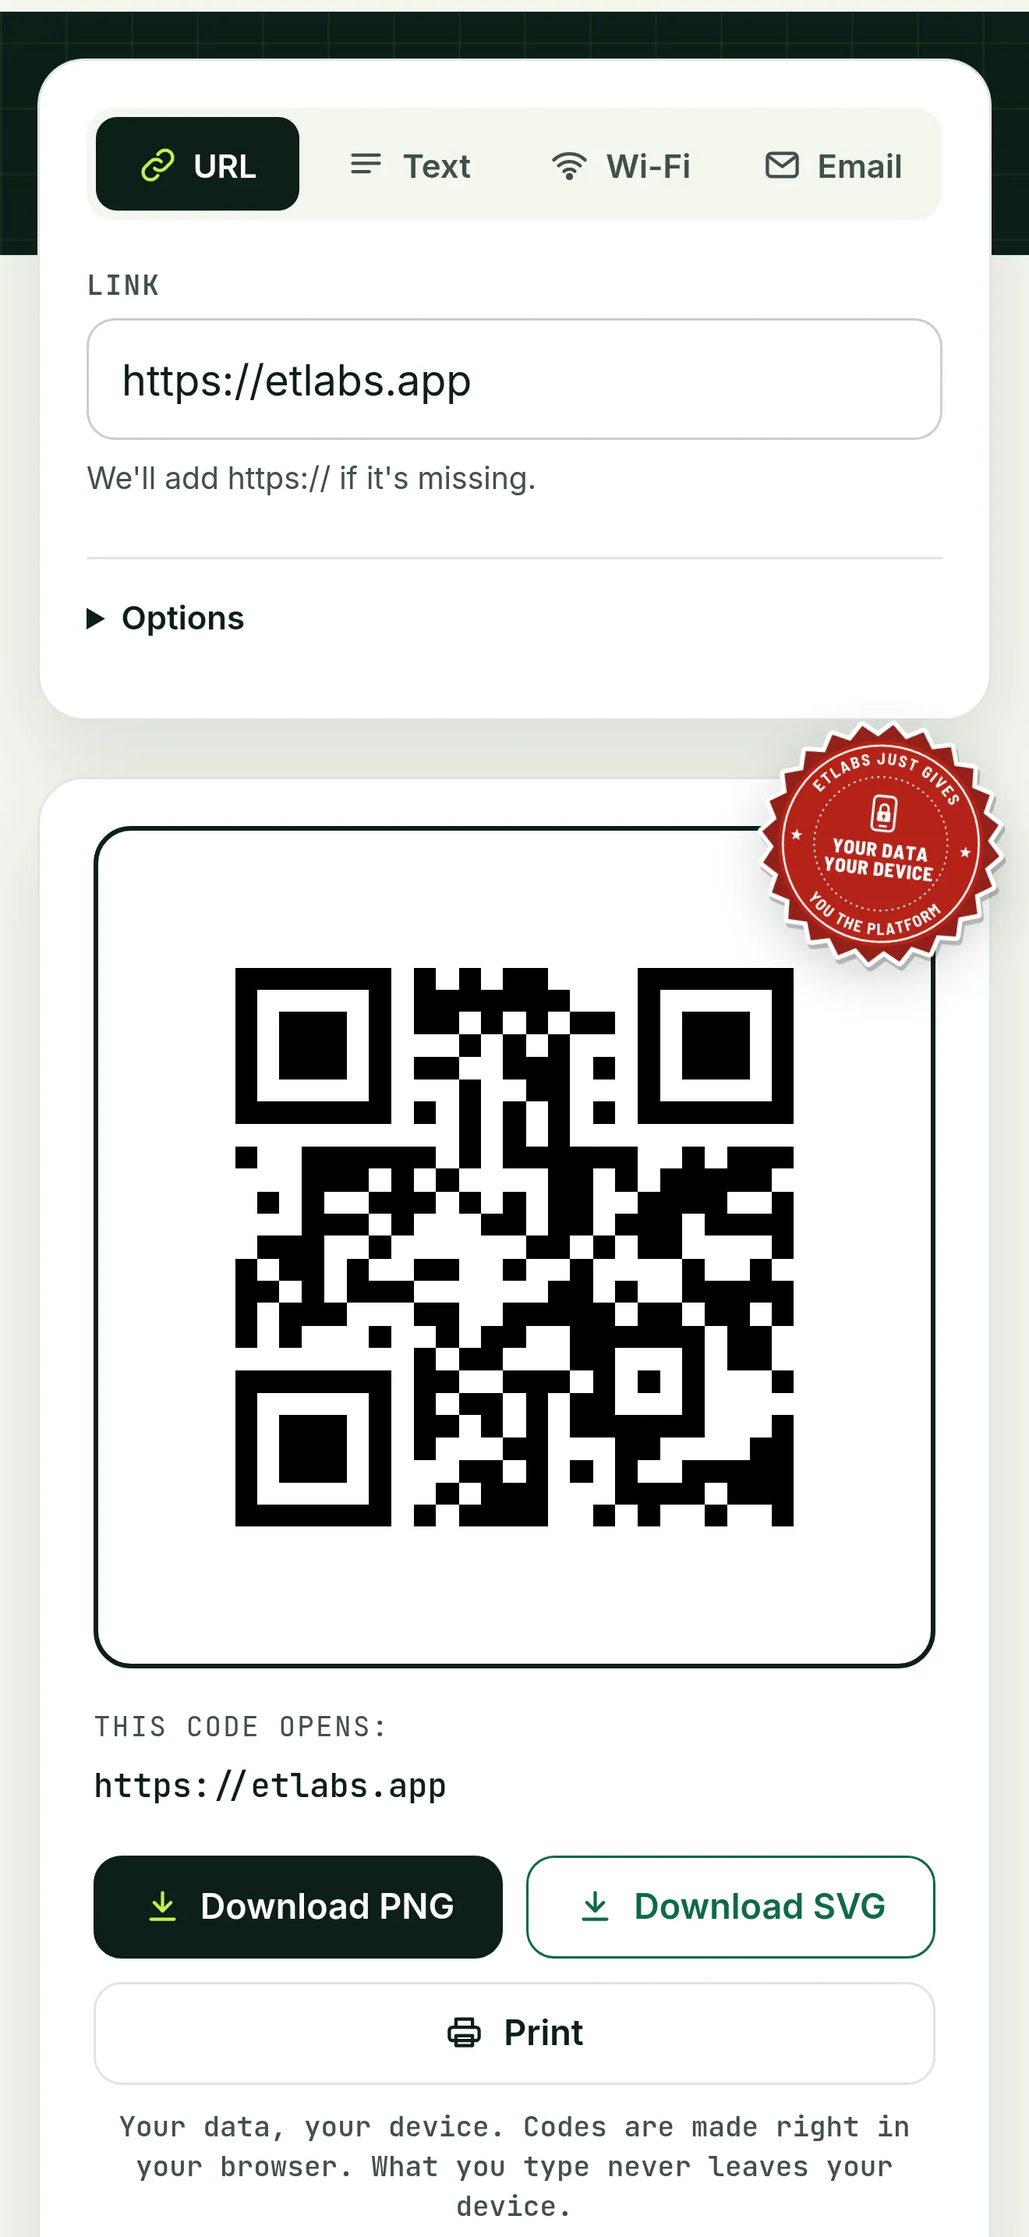
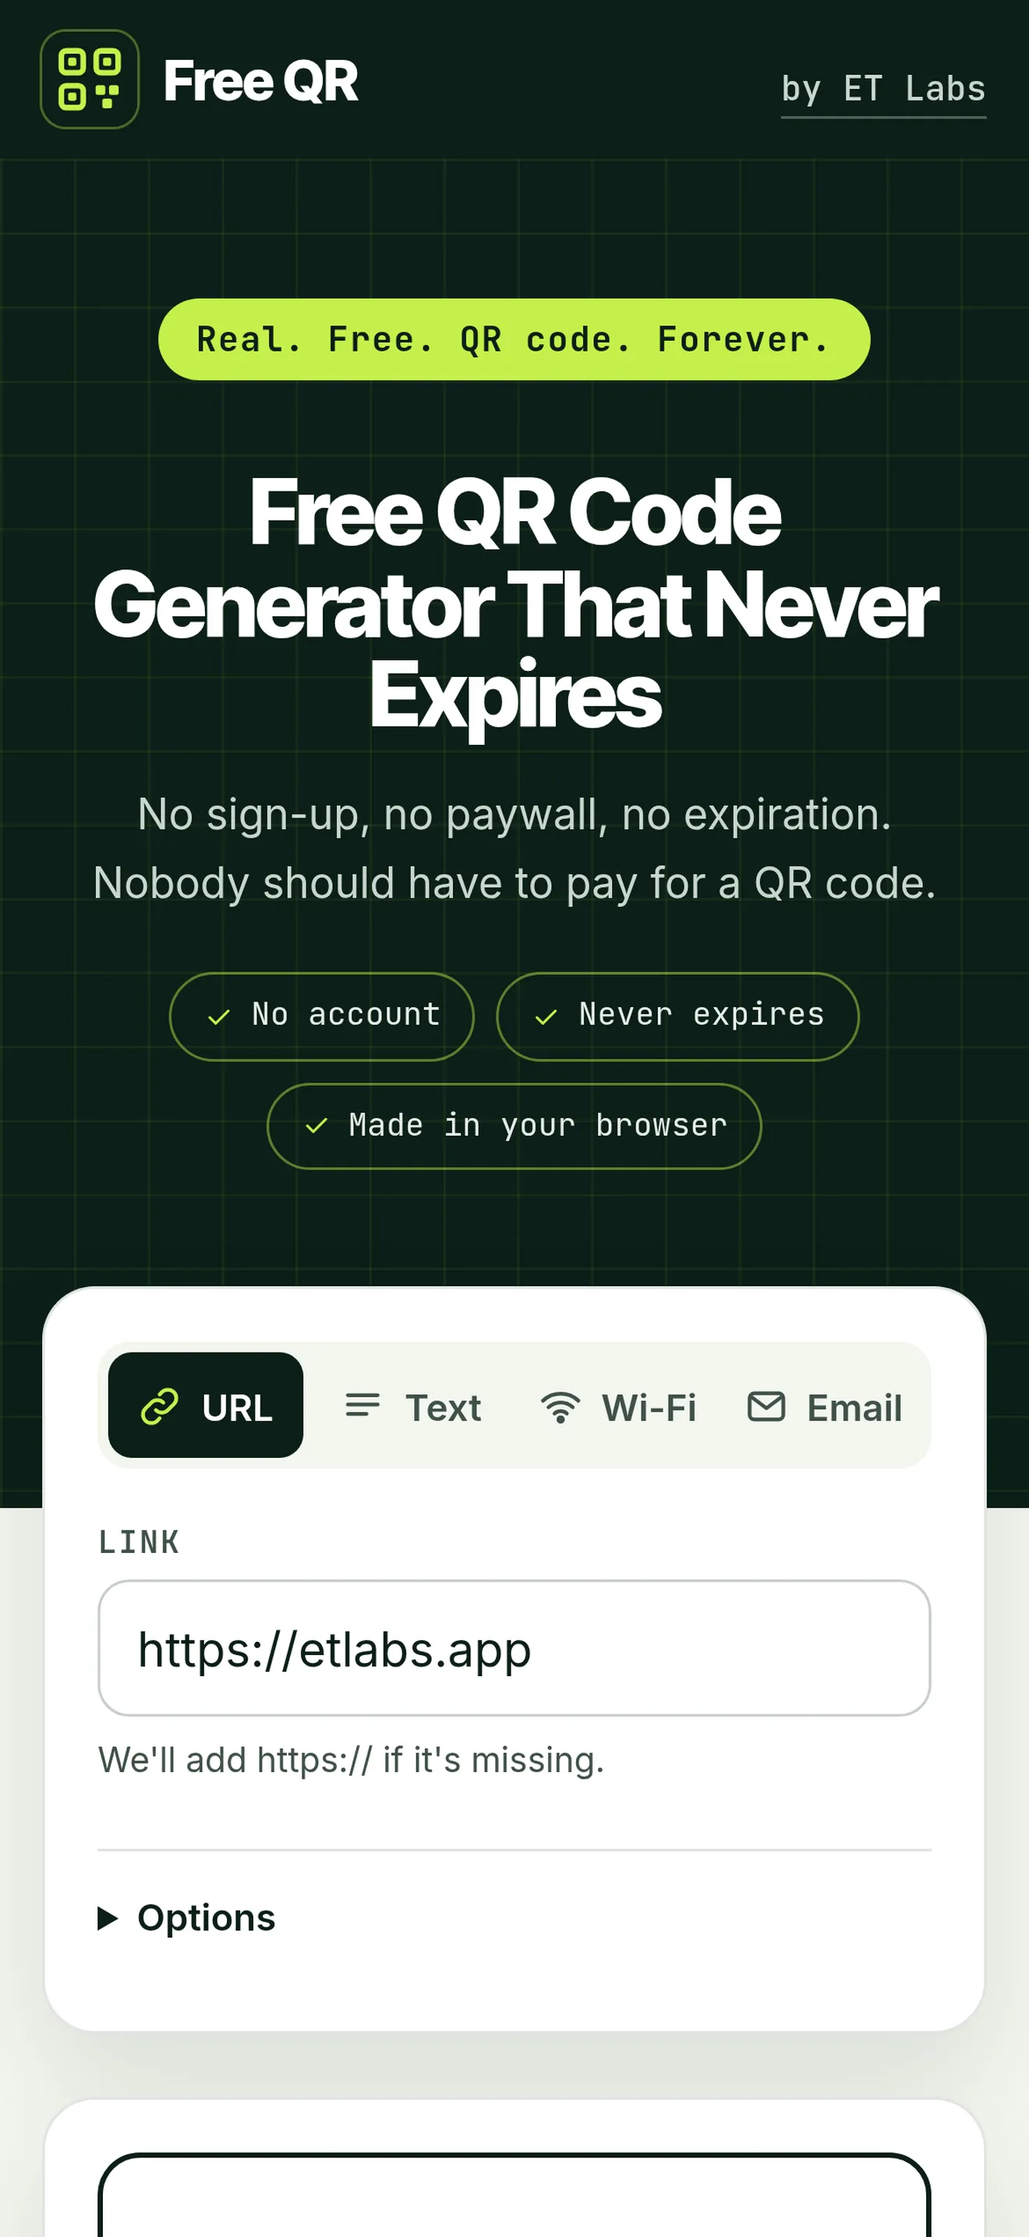
Free QR card: 390px top-of-page phone shot, page sticker out of frame; alt updated

diff --git a/index.html b/index.html
@@ -106,7 +106,7 @@
 <article class="card portfolio-card portfolio-sleeptight" id="sleeptight-card"><div class="portfolio-media"><img src="/apps/sleeptight/images/hero-phone.webp" width="520" height="1040" loading="lazy" alt="SleepTight: DreamWrite on iPhone"><img class="st-stamp st-stamp--card st-stamp--animate" src="/assets/images/hq-product/myhq-stamp.svg" width="250" height="252" alt="Your data, your device. ETLabs just gives you the platform."></div><div class="portfolio-copy"><img class="status-stamp" src="/assets/images/stamps/status-live.svg" width="74" height="41" alt="Status: Live"><p class="card-label">On the App Store</p><div class="st-card-title"><img src="/apps/sleeptight/images/sleeptight-logo.webp" class="st-card-icon" width="44" height="44" alt=""><h2 class="section-title">SleepTight: DreamWrite</h2></div><p class="section-text">Plan bedtime, set real alarms, take naps, and keep a private dream journal. Voice memos are free; optional premium features add on-device transcription, deeper history, and sleep timing insights.</p><p class="st-smallprint" data-copy-slot="sleeptight-smallprint">Stored on your iPhone. App Store label: Data Not Collected.</p><div class="split-actions"><a href="/apps/sleeptight/" class="primary-button">Explore SleepTight</a><a href="https://apps.apple.com/app/sleeptight-dreamwrite/id6760793422" class="secondary-button" target="_blank" rel="noopener noreferrer">App Store</a></div></div></article>
 <article class="card portfolio-card portfolio-totalcross"><div class="portfolio-media"><img class="card-shot" src="/assets/images/cards/totalcross-phone.webp" width="440" height="956" loading="lazy" decoding="async" alt="Total Cross on a phone: a daily puzzle grid with Across and Down target sums."></div><div class="portfolio-copy"><img class="status-stamp" src="/assets/images/stamps/status-live.svg" width="74" height="41" alt="Status: Live"><p class="card-label">Free · Daily puzzle</p><h2 class="section-title">Total Cross</h2><p class="section-text">A daily number crossword where letters have values and every word must add up to its target. Three difficulty levels, one finishable puzzle a day.</p><div class="split-actions"><a href="/apps/totalcross/" class="primary-button">Play Total Cross</a></div></div></article>
 <article class="card portfolio-card portfolio-study"><div class="portfolio-media"><img class="card-shot" src="/assets/images/cards/securityplus-phone.webp" width="440" height="956" loading="lazy" decoding="async" alt="Security+ Study on a phone: a scenario question with four answer choices."></div><div class="portfolio-copy"><img class="status-stamp" src="/assets/images/stamps/status-live.svg" width="74" height="41" alt="Status: Live"><p class="card-label">Free quiz games</p><h2 class="section-title">Security+ Study</h2><p class="section-text">Practice selected CompTIA Security+ (SY0-701) topics with short rounds of terms, scenarios, and certificate anatomy. A study supplement you can use at your own pace.</p><div class="split-actions"><a href="/study/" class="primary-button">Start studying</a></div></div></article>
-<article class="card portfolio-card portfolio-freeqr"><div class="portfolio-media"><img class="card-shot" src="/assets/images/cards/freeqr-phone.webp" width="440" height="956" loading="lazy" decoding="async" alt="Free QR on a phone: a QR code for etlabs.app with download buttons."><img class="st-stamp st-stamp--card st-stamp--animate" src="/assets/images/hq-product/myhq-stamp.svg" width="250" height="252" alt="Your data, your device. Codes are made right in your browser. What you type never leaves your device." data-legal-gate="freeqr-sticker"></div><div class="portfolio-copy"><img class="status-stamp" src="/assets/images/stamps/status-live.svg" width="74" height="41" alt="Status: Live"><p class="card-label">Free · Web tool</p><div class="st-card-title"><img src="/qr/icons/app-icon.svg" class="st-card-icon" width="44" height="44" alt=""><h2 class="section-title">Free QR</h2></div><p class="section-text">Free QR codes that never expire. Your link goes straight into the code, so there's no sign-up, no paywall and nothing to renew. Made right in your browser.</p><p class="st-smallprint" data-copy-slot="freeqr-smallprint" data-legal-gate="freeqr-sticker">Your data, your device. Codes are made right in your browser. What you type never leaves your device.</p><div class="split-actions"><a href="/qr/" class="primary-button">Make a QR code</a></div></div></article>
+<article class="card portfolio-card portfolio-freeqr"><div class="portfolio-media"><img class="card-shot" src="/assets/images/cards/freeqr-phone.webp" width="440" height="956" loading="lazy" decoding="async" alt="Free QR on a phone: the start screen, with etlabs.app typed into the link field."><img class="st-stamp st-stamp--card st-stamp--animate" src="/assets/images/hq-product/myhq-stamp.svg" width="250" height="252" alt="Your data, your device. Codes are made right in your browser. What you type never leaves your device." data-legal-gate="freeqr-sticker"></div><div class="portfolio-copy"><img class="status-stamp" src="/assets/images/stamps/status-live.svg" width="74" height="41" alt="Status: Live"><p class="card-label">Free · Web tool</p><div class="st-card-title"><img src="/qr/icons/app-icon.svg" class="st-card-icon" width="44" height="44" alt=""><h2 class="section-title">Free QR</h2></div><p class="section-text">Free QR codes that never expire. Your link goes straight into the code, so there's no sign-up, no paywall and nothing to renew. Made right in your browser.</p><p class="st-smallprint" data-copy-slot="freeqr-smallprint" data-legal-gate="freeqr-sticker">Your data, your device. Codes are made right in your browser. What you type never leaves your device.</p><div class="split-actions"><a href="/qr/" class="primary-button">Make a QR code</a></div></div></article>
 <article class="card portfolio-card portfolio-myhq portfolio-myhq-devices"><div class="portfolio-media myhq-devices"><span class="myhq-example">Example data</span><div class="myhq-device myhq-device--desktop"><picture><source srcset="/assets/images/hq-product/card-desktop.avif" type="image/avif"><img src="/assets/images/hq-product/card-desktop.webp" width="800" height="500" loading="lazy" decoding="async" alt="ETLabs MyHQ on a desktop, Homeschool HQ with example deadlines and a week view."></picture></div><div class="myhq-device myhq-device--phone"><picture><source srcset="/assets/images/hq-product/card-phone.avif" type="image/avif"><img src="/assets/images/hq-product/card-phone.webp" width="320" height="693" loading="lazy" decoding="async" alt="ETLabs MyHQ on a phone, week view with example homeschool data."></picture><img class="myhq-stamp myhq-stamp--card myhq-stamp--animate" src="/assets/images/hq-product/myhq-stamp.svg" width="250" height="252" alt="Your data, your device. ETLabs just gives you the platform."></div></div><div class="portfolio-copy"><img class="status-stamp" src="/assets/images/stamps/status-beta.svg" width="74" height="41" alt="Status: Beta"><p class="card-label">Beta</p><div class="myhq-card-title"><img src="/assets/images/hq-product/myhq-icon-clay.svg" class="myhq-card-icon" width="44" height="44" alt=""><h2 class="section-title" data-product-name="myhq" data-name-form="full">ETLabs MyHQ</h2></div><!-- WRITING-SWAP: myhq-card-description (one element; same text on home + products) --><p class="section-text myhq-card-desc" data-copy-slot="myhq-card-description">Your deadlines, week and to-dos on one page, running on your device. Choose from 7 starters, List, Week or Cards layouts, and 5 colors.</p><p class="myhq-smallprint">Stored in your browser. Nothing leaves unless you send it.</p><div class="split-actions"><a href="https://templates.hq-template.pages.dev/" class="primary-button" target="_blank" rel="noopener noreferrer">Open the preview <span aria-hidden="true">↗</span></a><a href="/myhq" data-product-link="myhq" class="secondary-button">Learn more</a></div></div></article>
 <article class="card portfolio-card junior-card" aria-labelledby="junior-title"><div class="card-visual card-visual--junior"><div class="portfolio-media jr-media jr-media--square"><div class="jr-placeholder"><span class="jr-lockup" role="img" aria-label="ET Labs Junior logo"><img src="/assets/images/etlabs-wordmark.svg" alt="" width="1064" height="289"><span class="jr-type"><span class="t">Junior</span><span class="c"></span></span></span><img class="jr-cs-stamp" src="/assets/images/stamps/coming-soon-stamp.svg" width="149" height="41" alt=""></div></div><img class="card-sticker card-sticker--junior card-sticker--animate" src="/assets/images/stamps/junior-sticker.svg" width="250" height="252" alt="Built parent-first."></div><div class="portfolio-copy"><p class="card-label">Concept · Coming soon</p><h2 class="section-title" id="junior-title">ET Labs Junior</h2><p class="section-text">Coming soon: a place where kids and parents explore AI together through games, stories and short lessons. Still taking shape at ET Labs.</p><p class="jr-smallprint">Concept in development. Planned: chats aren't saved, and parents choose what's shared.</p><p class="jr-coming-label">Coming:</p><ul class="jr-coming"><li>Teach the Robot by example</li><li>Story Builder, starting with your idea</li><li>Weekend AI Lessons for families</li><li>Parent Corner for grown-ups</li></ul></div></article>
 <article class="card portfolio-card lattice-card" data-lattice-motion><div class="portfolio-media"><div class="glass-scene" aria-hidden="true"><div class="lattice-cube"><i class="face front"></i><i class="face back"></i><i class="face right"></i><i class="face left"></i><i class="face top"></i><i class="face bottom"></i></div></div><img class="lat-stamp" src="/assets/images/stamps/coming-soon-stamp.svg" width="149" height="41" alt=""></div><div class="portfolio-copy"><p class="card-label">Coming soon</p><h2 class="section-title">Lattice³</h2><div class="split-actions"><a href="/apps/lattice3/" class="secondary-button">Lattice³ <span aria-hidden="true">↗</span></a></div></div><button class="motion-toggle" type="button" aria-label="Pause cube animation" aria-pressed="false"><span aria-hidden="true">Ⅱ</span></button></article>

diff --git a/products.html b/products.html
@@ -80,7 +80,7 @@
 <article class="card portfolio-card portfolio-sleeptight" id="sleeptight-card"><div class="portfolio-media"><img src="/apps/sleeptight/images/hero-phone.webp" width="520" height="1040" loading="lazy" alt="SleepTight: DreamWrite on iPhone"><img class="st-stamp st-stamp--card st-stamp--animate" src="/assets/images/hq-product/myhq-stamp.svg" width="250" height="252" alt="Your data, your device. ETLabs just gives you the platform."></div><div class="portfolio-copy"><img class="status-stamp" src="/assets/images/stamps/status-live.svg" width="74" height="41" alt="Status: Live"><p class="card-label">On the App Store</p><div class="st-card-title"><img src="/apps/sleeptight/images/sleeptight-logo.webp" class="st-card-icon" width="44" height="44" alt=""><h2 class="section-title">SleepTight: DreamWrite</h2></div><p class="section-text">Plan bedtime, set real alarms, take naps, and keep a private dream journal. Voice memos are free; optional premium features add on-device transcription, deeper history, and sleep timing insights.</p><p class="st-smallprint" data-copy-slot="sleeptight-smallprint">Stored on your iPhone. App Store label: Data Not Collected.</p><div class="split-actions"><a href="/apps/sleeptight/" class="primary-button">Explore SleepTight</a><a href="https://apps.apple.com/app/sleeptight-dreamwrite/id6760793422" class="secondary-button" target="_blank" rel="noopener noreferrer">App Store</a></div></div></article>
 <article class="card portfolio-card portfolio-totalcross"><div class="portfolio-media"><img class="card-shot" src="/assets/images/cards/totalcross-phone.webp" width="440" height="956" loading="lazy" decoding="async" alt="Total Cross on a phone: a daily puzzle grid with Across and Down target sums."></div><div class="portfolio-copy"><img class="status-stamp" src="/assets/images/stamps/status-live.svg" width="74" height="41" alt="Status: Live"><p class="card-label">Free · Daily puzzle</p><h2 class="section-title">Total Cross</h2><p class="section-text">A daily number crossword where letters have values and every word must add up to its target. Three difficulty levels, one finishable puzzle a day.</p><div class="split-actions"><a href="/apps/totalcross/" class="primary-button">Play Total Cross</a></div></div></article>
 <article class="card portfolio-card portfolio-study"><div class="portfolio-media"><img class="card-shot" src="/assets/images/cards/securityplus-phone.webp" width="440" height="956" loading="lazy" decoding="async" alt="Security+ Study on a phone: a scenario question with four answer choices."></div><div class="portfolio-copy"><img class="status-stamp" src="/assets/images/stamps/status-live.svg" width="74" height="41" alt="Status: Live"><p class="card-label">Free quiz games</p><h2 class="section-title">Security+ Study</h2><p class="section-text">Practice selected CompTIA Security+ (SY0-701) topics with short rounds of terms, scenarios, and certificate anatomy. A study supplement you can use at your own pace.</p><div class="split-actions"><a href="/study/" class="primary-button">Start studying</a></div></div></article>
-<article class="card portfolio-card portfolio-freeqr"><div class="portfolio-media"><img class="card-shot" src="/assets/images/cards/freeqr-phone.webp" width="440" height="956" loading="lazy" decoding="async" alt="Free QR on a phone: a QR code for etlabs.app with download buttons."><img class="st-stamp st-stamp--card st-stamp--animate" src="/assets/images/hq-product/myhq-stamp.svg" width="250" height="252" alt="Your data, your device. Codes are made right in your browser. What you type never leaves your device." data-legal-gate="freeqr-sticker"></div><div class="portfolio-copy"><img class="status-stamp" src="/assets/images/stamps/status-live.svg" width="74" height="41" alt="Status: Live"><p class="card-label">Free · Web tool</p><div class="st-card-title"><img src="/qr/icons/app-icon.svg" class="st-card-icon" width="44" height="44" alt=""><h2 class="section-title">Free QR</h2></div><p class="section-text">Free QR codes that never expire. Your link goes straight into the code, so there's no sign-up, no paywall and nothing to renew. Made right in your browser.</p><p class="st-smallprint" data-copy-slot="freeqr-smallprint" data-legal-gate="freeqr-sticker">Your data, your device. Codes are made right in your browser. What you type never leaves your device.</p><div class="split-actions"><a href="/qr/" class="primary-button">Make a QR code</a></div></div></article>
+<article class="card portfolio-card portfolio-freeqr"><div class="portfolio-media"><img class="card-shot" src="/assets/images/cards/freeqr-phone.webp" width="440" height="956" loading="lazy" decoding="async" alt="Free QR on a phone: the start screen, with etlabs.app typed into the link field."><img class="st-stamp st-stamp--card st-stamp--animate" src="/assets/images/hq-product/myhq-stamp.svg" width="250" height="252" alt="Your data, your device. Codes are made right in your browser. What you type never leaves your device." data-legal-gate="freeqr-sticker"></div><div class="portfolio-copy"><img class="status-stamp" src="/assets/images/stamps/status-live.svg" width="74" height="41" alt="Status: Live"><p class="card-label">Free · Web tool</p><div class="st-card-title"><img src="/qr/icons/app-icon.svg" class="st-card-icon" width="44" height="44" alt=""><h2 class="section-title">Free QR</h2></div><p class="section-text">Free QR codes that never expire. Your link goes straight into the code, so there's no sign-up, no paywall and nothing to renew. Made right in your browser.</p><p class="st-smallprint" data-copy-slot="freeqr-smallprint" data-legal-gate="freeqr-sticker">Your data, your device. Codes are made right in your browser. What you type never leaves your device.</p><div class="split-actions"><a href="/qr/" class="primary-button">Make a QR code</a></div></div></article>
 <article class="card portfolio-card portfolio-myhq portfolio-myhq-devices"><div class="portfolio-media myhq-devices"><span class="myhq-example">Example data</span><div class="myhq-device myhq-device--desktop"><picture><source srcset="/assets/images/hq-product/card-desktop.avif" type="image/avif"><img src="/assets/images/hq-product/card-desktop.webp" width="800" height="500" loading="lazy" decoding="async" alt="ETLabs MyHQ on a desktop, Homeschool HQ with example deadlines and a week view."></picture></div><div class="myhq-device myhq-device--phone"><picture><source srcset="/assets/images/hq-product/card-phone.avif" type="image/avif"><img src="/assets/images/hq-product/card-phone.webp" width="320" height="693" loading="lazy" decoding="async" alt="ETLabs MyHQ on a phone, week view with example homeschool data."></picture><img class="myhq-stamp myhq-stamp--card myhq-stamp--animate" src="/assets/images/hq-product/myhq-stamp.svg" width="250" height="252" alt="Your data, your device. ETLabs just gives you the platform."></div></div><div class="portfolio-copy"><img class="status-stamp" src="/assets/images/stamps/status-beta.svg" width="74" height="41" alt="Status: Beta"><p class="card-label">Beta</p><div class="myhq-card-title"><img src="/assets/images/hq-product/myhq-icon-clay.svg" class="myhq-card-icon" width="44" height="44" alt=""><h2 class="section-title" data-product-name="myhq" data-name-form="full">ETLabs MyHQ</h2></div><!-- WRITING-SWAP: myhq-card-description (one element; same text on home + products) --><p class="section-text myhq-card-desc" data-copy-slot="myhq-card-description">Your deadlines, week and to-dos on one page, running on your device. Choose from 7 starters, List, Week or Cards layouts, and 5 colors.</p><p class="myhq-smallprint">Stored in your browser. Nothing leaves unless you send it.</p><div class="split-actions"><a href="https://templates.hq-template.pages.dev/" class="primary-button" target="_blank" rel="noopener noreferrer">Open the preview <span aria-hidden="true">↗</span></a><a href="/myhq" data-product-link="myhq" class="secondary-button">Learn more</a></div></div></article>
 <article class="card portfolio-card junior-card" aria-labelledby="junior-title"><div class="card-visual card-visual--junior"><div class="portfolio-media jr-media jr-media--square"><div class="jr-placeholder"><span class="jr-lockup" role="img" aria-label="ET Labs Junior logo"><img src="/assets/images/etlabs-wordmark.svg" alt="" width="1064" height="289"><span class="jr-type"><span class="t">Junior</span><span class="c"></span></span></span><img class="jr-cs-stamp" src="/assets/images/stamps/coming-soon-stamp.svg" width="149" height="41" alt=""></div></div><img class="card-sticker card-sticker--junior card-sticker--animate" src="/assets/images/stamps/junior-sticker.svg" width="250" height="252" alt="Built parent-first."></div><div class="portfolio-copy"><p class="card-label">Concept · Coming soon</p><h2 class="section-title" id="junior-title">ET Labs Junior</h2><p class="section-text">Coming soon: a place where kids and parents explore AI together through games, stories and short lessons. Still taking shape at ET Labs.</p><p class="jr-smallprint">Concept in development. Planned: chats aren't saved, and parents choose what's shared.</p><p class="jr-coming-label">Coming:</p><ul class="jr-coming"><li>Teach the Robot by example</li><li>Story Builder, starting with your idea</li><li>Weekend AI Lessons for families</li><li>Parent Corner for grown-ups</li></ul></div></article>
 <article class="card portfolio-card lattice-card" data-lattice-motion><div class="portfolio-media"><div class="glass-scene" aria-hidden="true"><div class="lattice-cube"><i class="face front"></i><i class="face back"></i><i class="face right"></i><i class="face left"></i><i class="face top"></i><i class="face bottom"></i></div></div><img class="lat-stamp" src="/assets/images/stamps/coming-soon-stamp.svg" width="149" height="41" alt=""></div><div class="portfolio-copy"><p class="card-label">Coming soon</p><h2 class="section-title">Lattice³</h2><div class="split-actions"><a href="/apps/lattice3/" class="secondary-button">Lattice³ <span aria-hidden="true">↗</span></a></div></div><button class="motion-toggle" type="button" aria-label="Pause cube animation" aria-pressed="false"><span aria-hidden="true">Ⅱ</span></button></article>
